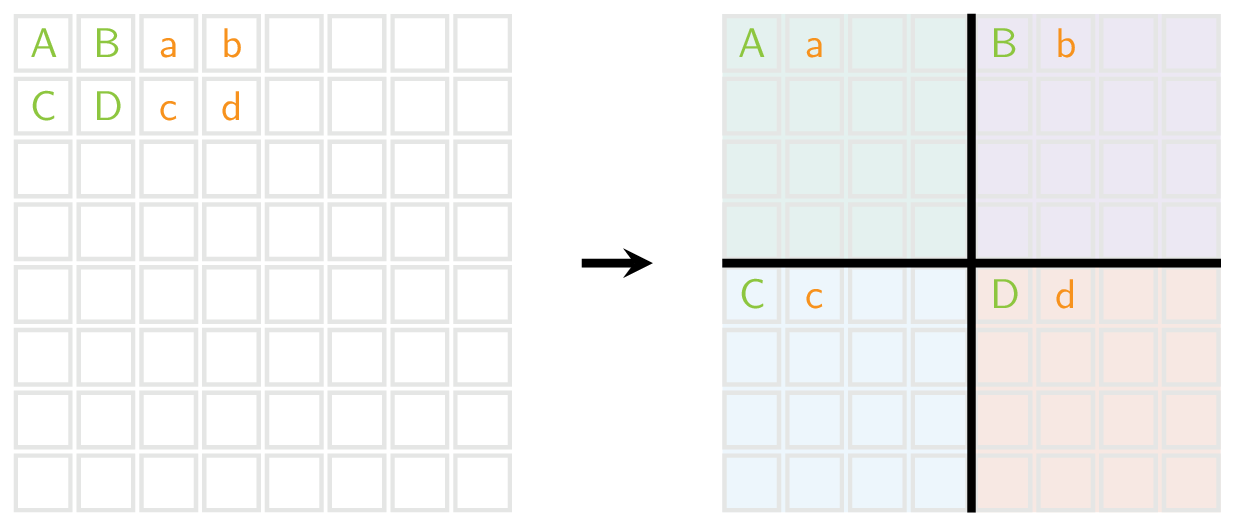
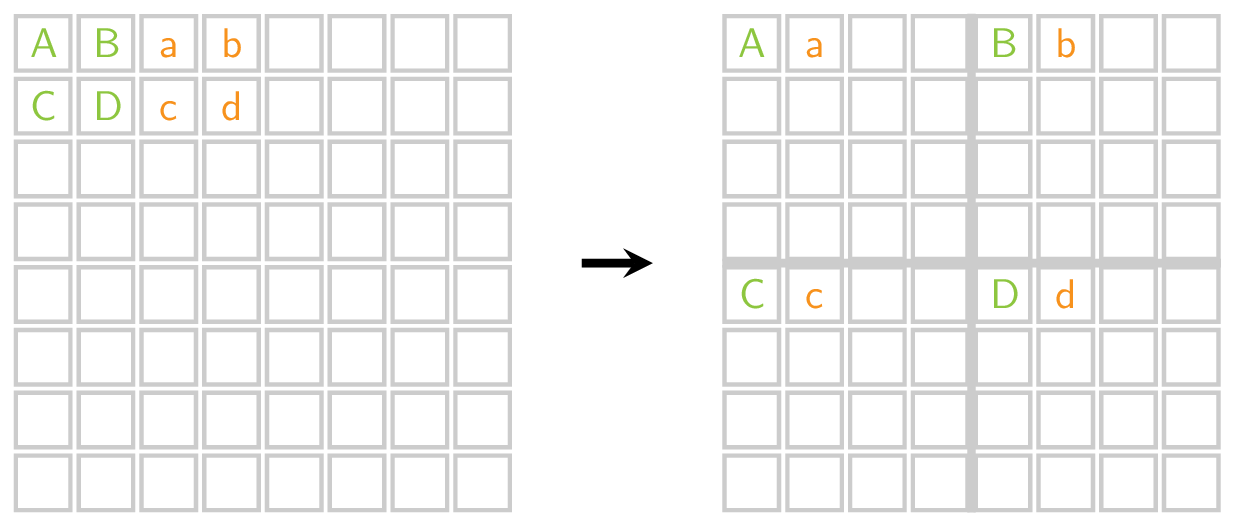
Image fix

Changed region(s): [[0.5851, 0.0, 1.0, 0.9734], [0.0, 0.0, 0.4311, 0.9734]]

diff --git a/Deel 3 Algoritmiek/03 Hogere dimensie/Evaluatie/30 Photobooth/description/media/image.tex b/Deel 3 Algoritmiek/03 Hogere dimensie/Evaluatie/30 Photobooth/description/media/image.tex
@@ -26,7 +26,7 @@
 			%right delimiter=),
 			column sep=1pt,
 			row sep=1pt,
-			nodes={draw=black!10}, % Uncoment to see the square nodes.
+			nodes={draw=black!20}, % Uncoment to see the square nodes.
 			nodes in empty cells,
 		},
 		DA/.style={
@@ -70,16 +70,14 @@
 			\null & \null &  \null&  \null&  \null& \null &\null & \null \\
 		};
 		
-		\draw[main] (3.89,0) --++ (4.22,0);
-		
-		\draw[main] (6,2.11) --++ (0,-4.22);
+		\draw[main, black!20] (3.89,0) --++ (4.22,0) (6,2.11) --++ (0,-4.22);
 		
 		\begin{scope}[on background layer] 
 			%To delimit internal area groups
-			\node[DA,PineGreen!50,fit=(M-1-1)(M-4-4)](subM-1){};
-			\node[DA,RoyalPurple!50,fit=(M-1-5)(M-4-8)](subM-2){};
-			\node[DA,CornflowerBlue!50,fit=(M-5-1)(M-8-4)](subM-3){};
-			\node[DA,BrickRed!50,fit=(M-5-5)(M-8-8)](subM-4){};
+			%\node[DA,PineGreen!50,fit=(M-1-1)(M-4-4)](subM-1){};
+			%\node[DA,RoyalPurple!50,fit=(M-1-5)(M-4-8)](subM-2){};
+			%\node[DA,CornflowerBlue!50,fit=(M-5-1)(M-8-4)](subM-3){};
+			%\node[DA,BrickRed!50,fit=(M-5-5)(M-8-8)](subM-4){};
 			
 			\draw[main, -stealth] (2.7,0) --++ (0.6,0);
 			
